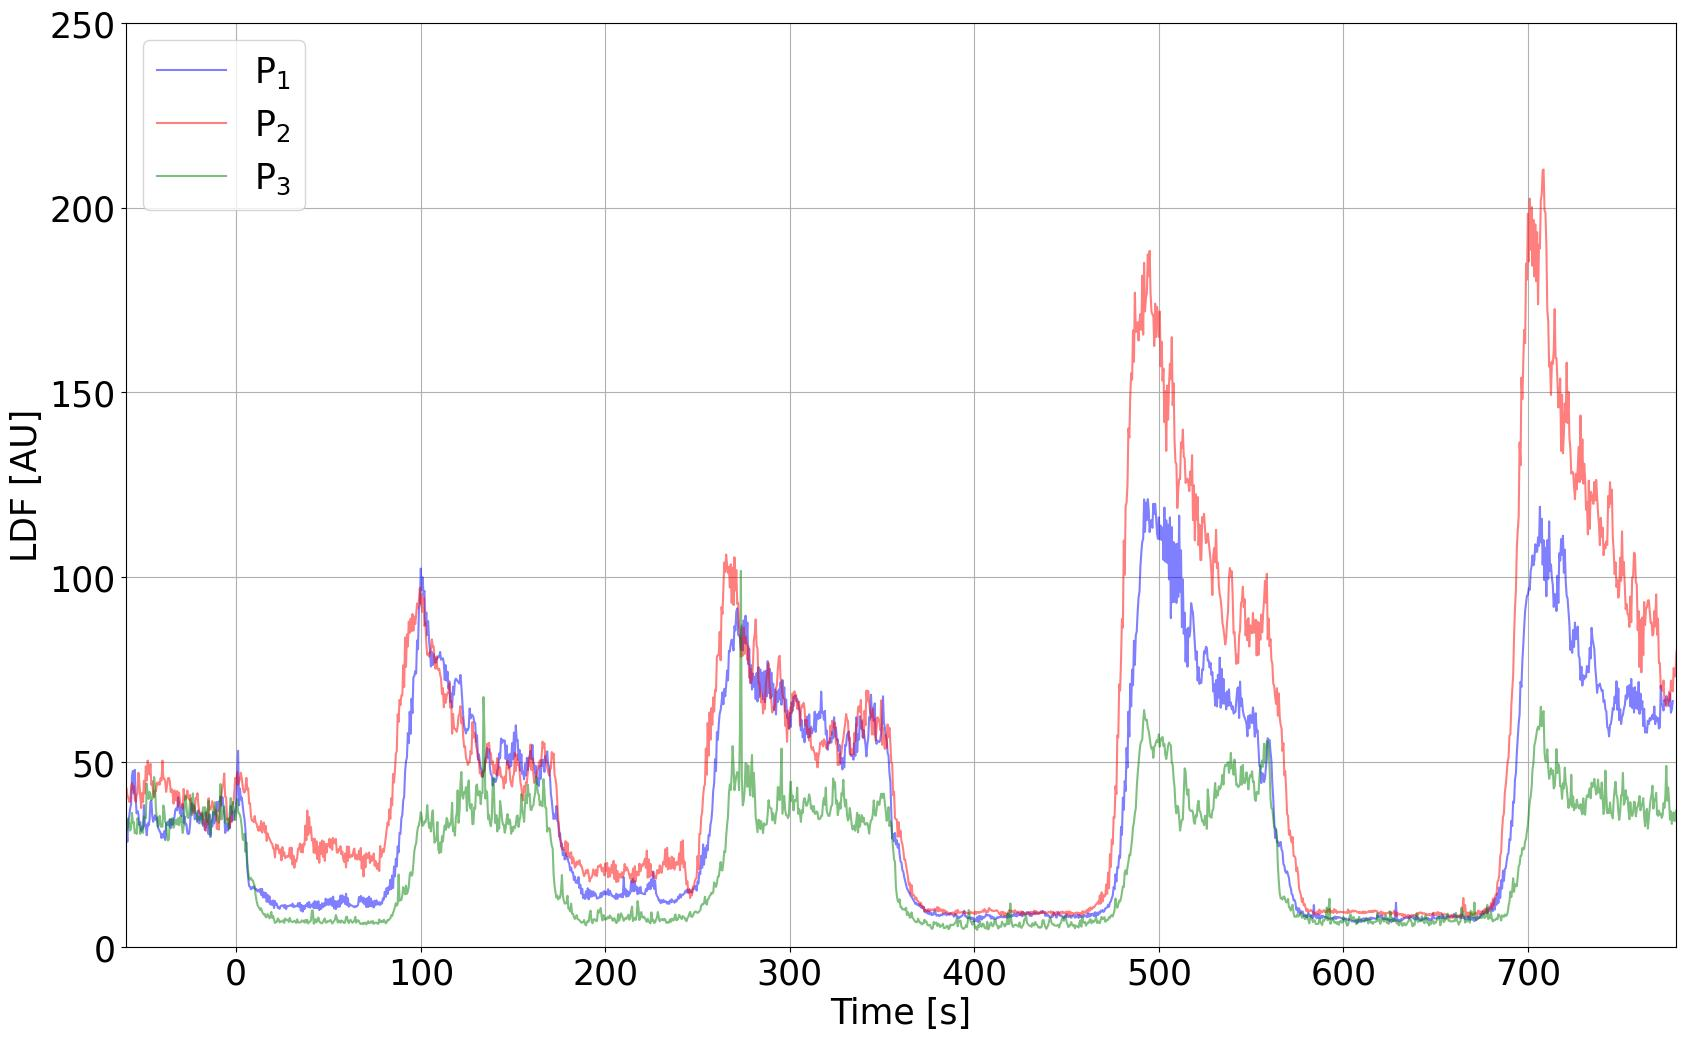
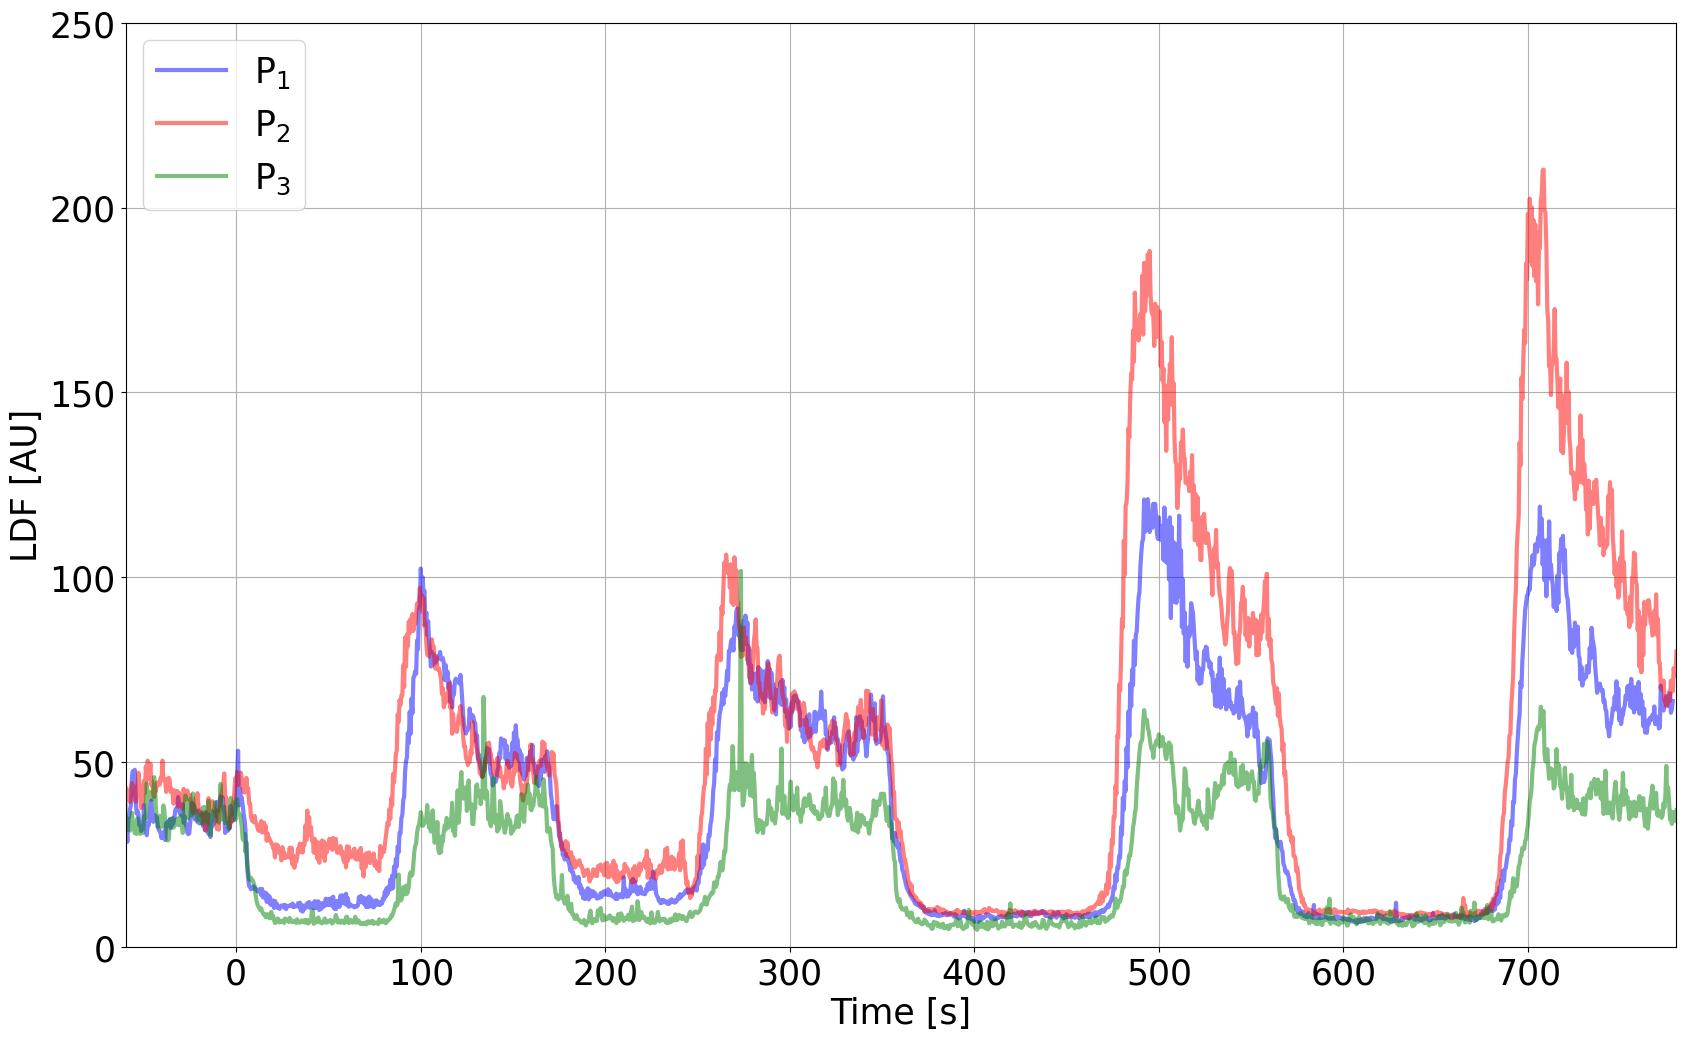
update

Changed region(s): [[0.0617, 0.2462, 1.0, 0.8923], [0.895, 0.1846, 0.9258, 0.4], [0.0926, 0.0615, 0.1234, 0.1231]]

diff --git a/Experimental_Data/LDF_post_treatment.py b/Experimental_Data/LDF_post_treatment.py
@@ -778,13 +778,13 @@ plt.savefig('check_time_range_metrics.png')
 
 plt.rcParams.update({'font.size': 25})
 plt.figure(figsize=(20, 12))
-plt.plot(JOL_PREVAIL_LBM_008["j2_2"]["temps (s)"][index_22-130:index_22+length_list], JOL_mean_signal_raw, color='b', label="P$_1$", alpha=0.5)
+plt.plot(JOL_PREVAIL_LBM_008["j2_2"]["temps (s)"][index_22-130:index_22+length_list], JOL_mean_signal_raw, color='b', label="P$_1$", alpha=0.5, linewidth=3)
 # plt.fill_between(JOL_PREVAIL_LBM_008["j2_2"]["temps (s)"][index_22-130:index_22+length_list], JOL_mms_raw, JOL_mps_raw, color='b', alpha=0.2)
 # 
-plt.plot(ASE_PREVAIL_LBM_009["j2_2"]["temps (s)"][index_22_ASE-130:index_22_ASE+length_list_ASE], ASE_mean_signal_raw, color='r', label="P$_2$", alpha=0.5)
+plt.plot(ASE_PREVAIL_LBM_009["j2_2"]["temps (s)"][index_22_ASE-130:index_22_ASE+length_list_ASE], ASE_mean_signal_raw, color='r', label="P$_2$", alpha=0.5, linewidth=3)
 # plt.fill_between(ASE_PREVAIL_LBM_009["j2_2"]["temps (s)"][index_22_ASE-130:index_22_ASE+length_list_ASE], ASE_mms_raw, ASE_mps_raw, color='r', alpha=0.2)
 # 
-plt.plot(MDI_PREVAIL_LBM_026["j1_2"]["temps (s)"][index_12_MDI-130:index_12_MDI+length_list_MDI], MDI_mean_signal_raw, color='g', label="P$_3$", alpha=0.5)
+plt.plot(MDI_PREVAIL_LBM_026["j1_2"]["temps (s)"][index_12_MDI-130:index_12_MDI+length_list_MDI], MDI_mean_signal_raw, color='g', label="P$_3$", alpha=0.5, linewidth=3)
 # plt.fill_between(MDI_PREVAIL_LBM_026["j1_2"]["temps (s)"][index_12_MDI-130:index_12_MDI+length_list_MDI], MDI_mms_raw, MDI_mps_raw, color='g', alpha=0.2)
 plt.legend()
 plt.xlim([-60, 780])
@@ -796,14 +796,14 @@ plt.savefig('superp_mean_std_raw.jpg', bbox_inches='tight')
 
 plt.rcParams.update({'font.size': 25})
 plt.figure(figsize=(20, 12))
-plt.plot(JOL_PREVAIL_LBM_008["j2_2"]["temps (s)"][index_22-130:index_22+length_list], JOL_Temperaturemean_signal_raw, color='b', label="P$_1$", alpha=0.5)
+plt.plot(JOL_PREVAIL_LBM_008["j2_2"]["temps (s)"][index_22-130:index_22+length_list], JOL_Temperaturemean_signal_raw, color='b', label="P$_1$", alpha=0.5, linewidth=3)
 # plt.fill_between(JOL_PREVAIL_LBM_008["j2_2"]["temps (s)"][index_22-130:index_22+length_list], JOL_Temperaturemms_raw, JOL_Temperaturemps_raw, color='b', alpha=0.2)
-plt.plot(ASE_PREVAIL_LBM_009["j2_2"]["temps (s)"][index_22_ASE-130:index_22_ASE+length_list_ASE], ASE_Temperaturemean_signal_raw, color='r', label="P$_2$", alpha=0.5)
+plt.plot(ASE_PREVAIL_LBM_009["j2_2"]["temps (s)"][index_22_ASE-130:index_22_ASE+length_list_ASE], ASE_Temperaturemean_signal_raw, color='r', label="P$_2$", alpha=0.5, linewidth=3)
 # plt.fill_between(ASE_PREVAIL_LBM_009["j2_2"]["temps (s)"][index_22_ASE-130:index_22_ASE+length_list_ASE], ASE_Temperaturemms_raw, ASE_Temperaturemps_raw, color='r', alpha=0.2)
 # 
-plt.plot(MDI_PREVAIL_LBM_026["j1_2"]["temps (s)"][index_12_MDI-130:index_12_MDI+length_list_MDI], MDI_Temperaturemean_signal_raw, color='g', label="P$_3$", alpha=0.5)
+plt.plot(MDI_PREVAIL_LBM_026["j1_2"]["temps (s)"][index_12_MDI-130:index_12_MDI+length_list_MDI], MDI_Temperaturemean_signal_raw, color='g', label="P$_3$", alpha=0.5, linewidth=3)
 # plt.fill_between(MDI_PREVAIL_LBM_026["j1_2"]["temps (s)"][index_12_MDI-130:index_12_MDI+length_list_MDI], MDI_Temperaturemms_raw, MDI_Temperaturemps_raw, color='g', alpha=0.2)
-plt.legend()
+# plt.legend(loc='center left', bbox_to_anchor=(1, 0.5))
 plt.xlim([-60, 780])
 plt.ylim([27, 33])
 plt.xlabel("Time [s]")
